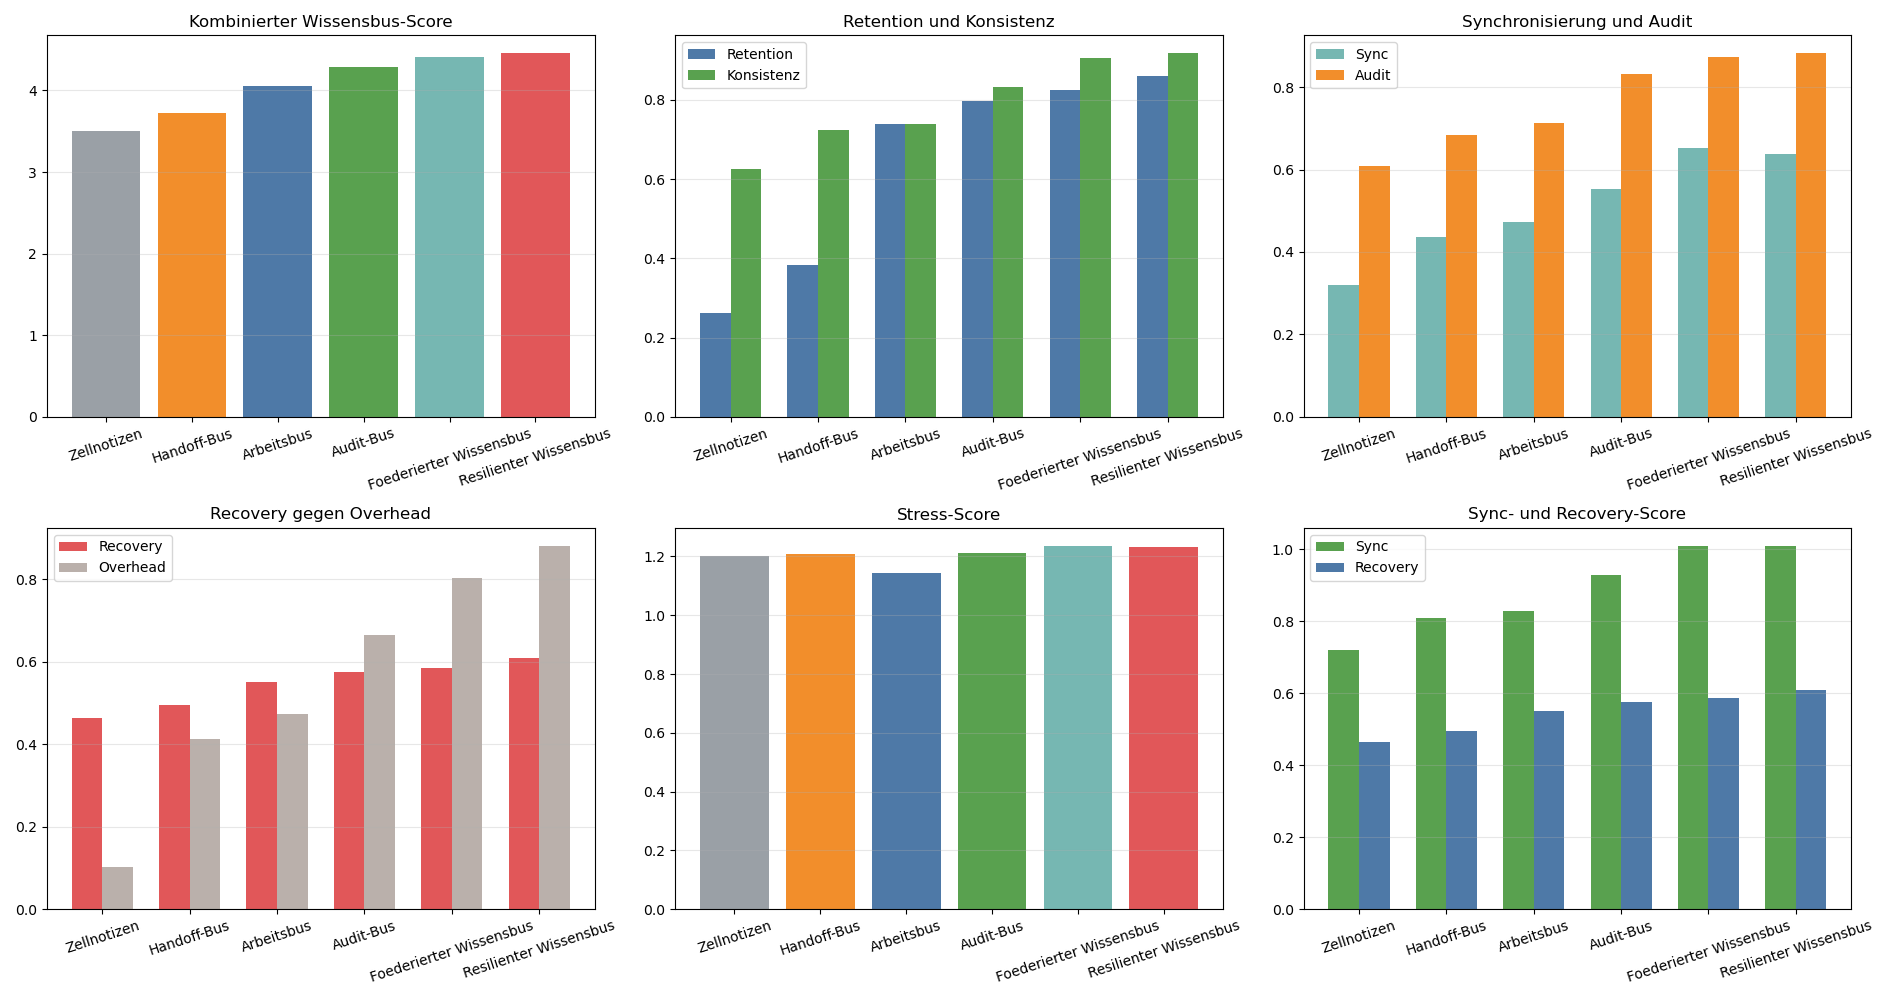
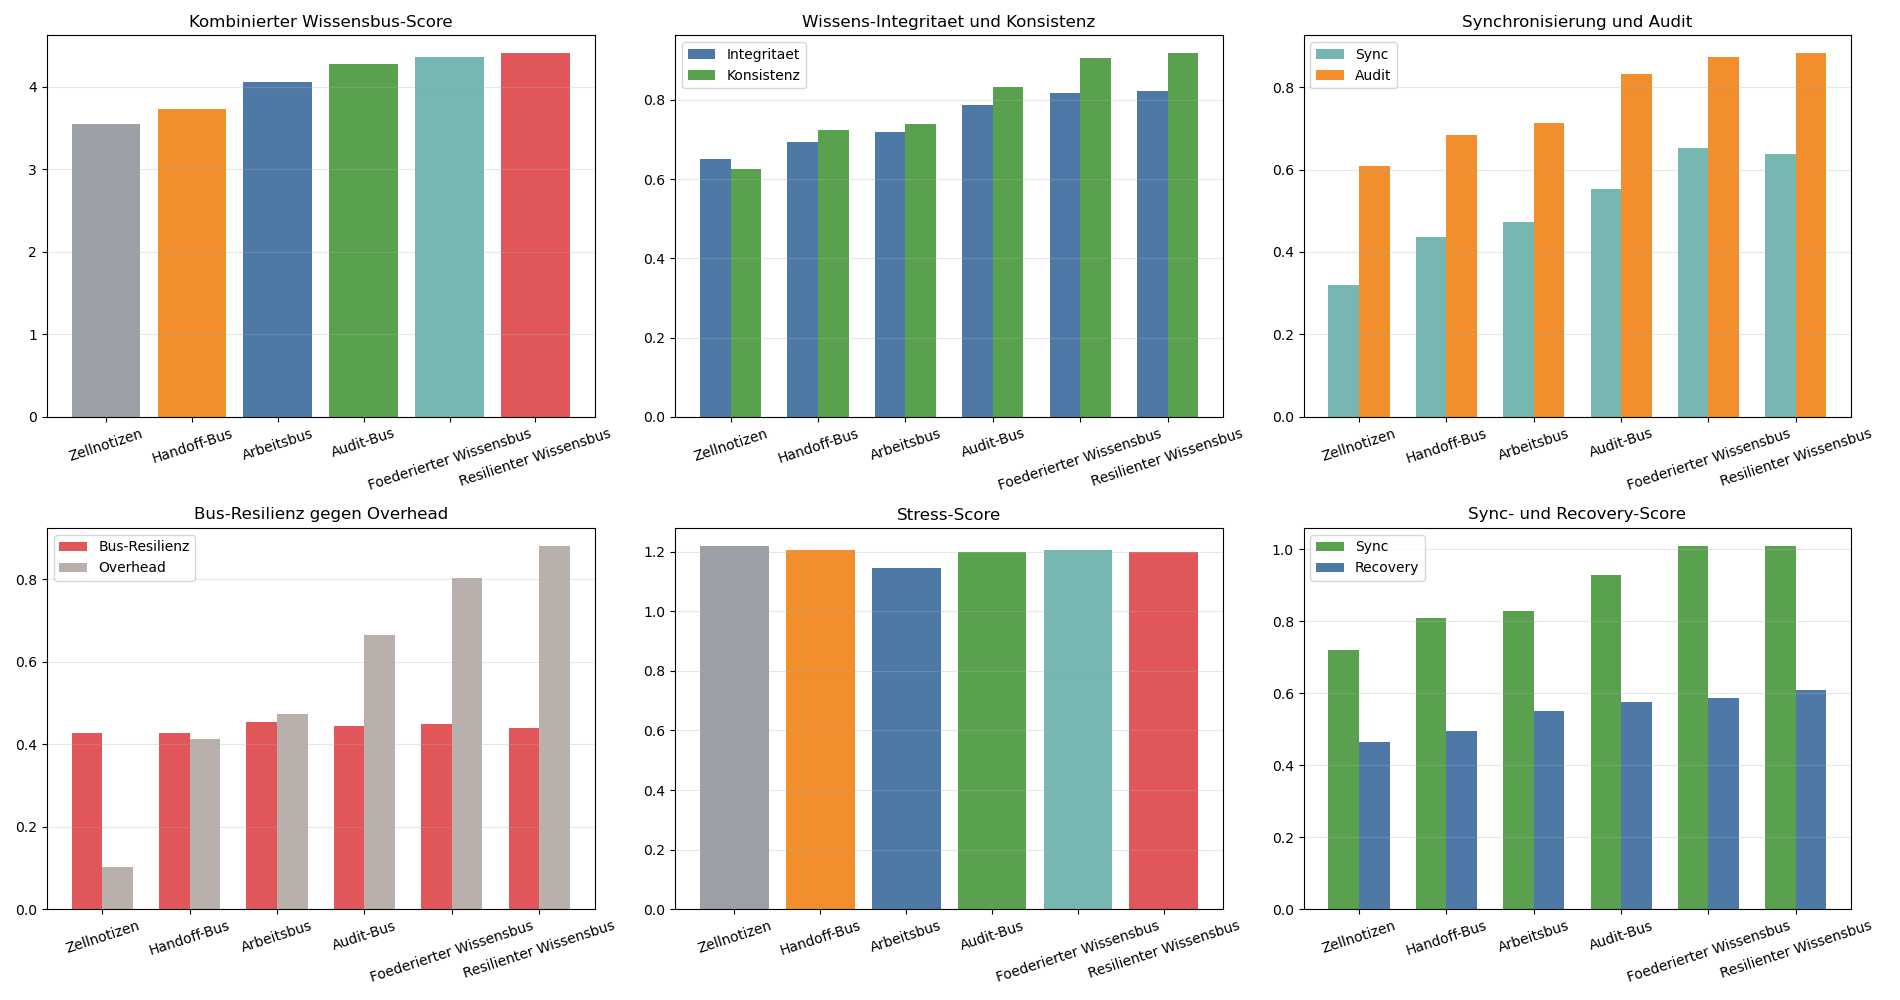
Refine knowledge bus resilience metrics

diff --git a/schwarm_wissensbus.py b/schwarm_wissensbus.py
@@ -364,6 +364,28 @@ def knowledge_bus_metrics(config, result, params, profile):
             ]
         )
     )
+    knowledge_integrity = clamp01(
+        mittelwert(
+            [
+                retention_quality,
+                bus_consistency,
+                audit_signal,
+                1.0 - workflow.get('misinformation_corruption_mean', 0.0),
+                traceability,
+            ]
+        )
+    )
+    bus_resilience = clamp01(
+        mittelwert(
+            [
+                sync_strength,
+                recovery_memory,
+                bus_consistency,
+                workflow.get('sync_strength_mean', 0.0),
+                1.0 - bus_overhead,
+            ]
+        )
+    )
 
     return {
         'completion_rate': workflow.get('completion_rate', 0.0),
@@ -385,6 +407,8 @@ def knowledge_bus_metrics(config, result, params, profile):
         'audit_signal': audit_signal,
         'sync_strength': sync_strength,
         'recovery_memory': recovery_memory,
+        'knowledge_integrity': knowledge_integrity,
+        'bus_resilience': bus_resilience,
         'bus_overhead': bus_overhead,
     }
 
@@ -451,17 +475,16 @@ def context_score(kontext_name, result, agent_count):
     if kontext_name == 'stress':
         return (
             base
-            + 0.18 * metrics['audit_signal']
-            + 0.12 * metrics['bus_consistency']
-            + 0.10 * metrics['recovery_memory']
-            - 0.12 * metrics['corruption_mean']
+            + 0.18 * metrics['knowledge_integrity']
+            + 0.12 * metrics['bus_resilience']
+            + 0.10 * metrics['audit_signal']
             - 0.10 * metrics['bus_overhead']
         )
     return (
         base
-        + 0.20 * metrics['recovery_memory']
-        + 0.12 * metrics['audit_signal']
-        + 0.08 * metrics['sync_strength']
+        + 0.20 * metrics['bus_resilience']
+        + 0.12 * metrics['knowledge_integrity']
+        + 0.08 * metrics['audit_signal']
         - 0.12 * failed_share
         - 0.08 * metrics['bus_overhead']
     )
@@ -475,6 +498,8 @@ def summarize_runs(runs, profile, context_list, agent_count):
         'audit_signal': {},
         'sync_strength': {},
         'recovery_memory': {},
+        'knowledge_integrity': {},
+        'bus_resilience': {},
         'bus_overhead': {},
     }
 
@@ -529,9 +554,9 @@ def main():
         summaries.append(summary)
         print(
             f"{summary['label']:<28} Score={summary['combined_score']:+.3f} | "
-            f"Retention={summary['retention_quality']['startup']:.2f} | "
-            f"Sync={summary['sync_strength']['sync']:.2f} | "
-            f"Audit={summary['audit_signal']['stress']:.2f}"
+            f"Integritaet={summary['knowledge_integrity']['stress']:.2f} | "
+            f"Bus-Resilienz={summary['bus_resilience']['recovery']:.2f} | "
+            f"Sync={summary['sync_strength']['sync']:.2f}"
         )
 
     best = max(summaries, key=lambda item: item['combined_score'])
@@ -543,9 +568,9 @@ def main():
         f"Delta zu Zellnotizen {best['combined_score'] - baseline['combined_score']:+.3f}"
     )
     print(
-        f"Consistency {best['bus_consistency']['sync']:.2f}, "
-        f"Audit {best['audit_signal']['stress']:.2f}, "
-        f"Recovery {best['recovery_memory']['recovery']:.2f}"
+        f"Integritaet {best['knowledge_integrity']['stress']:.2f}, "
+        f"Sync {best['sync_strength']['sync']:.2f}, "
+        f"Bus-Resilienz {best['bus_resilience']['recovery']:.2f}"
     )
 
     labels = [item['label'] for item in summaries]
@@ -563,9 +588,9 @@ def main():
 
     axes[0, 1].bar(
         x - width / 2,
-        [item['retention_quality']['startup'] for item in summaries],
+        [item['knowledge_integrity']['stress'] for item in summaries],
         width,
-        label='Retention',
+        label='Integritaet',
         color='#4e79a7',
     )
     axes[0, 1].bar(
@@ -575,7 +600,7 @@ def main():
         label='Konsistenz',
         color='#59a14f',
     )
-    axes[0, 1].set_title('Retention und Konsistenz')
+    axes[0, 1].set_title('Wissens-Integritaet und Konsistenz')
     axes[0, 1].set_xticks(x)
     axes[0, 1].set_xticklabels(labels, rotation=18)
     axes[0, 1].legend()
@@ -603,9 +628,9 @@ def main():
 
     axes[1, 0].bar(
         x - width / 2,
-        [item['recovery_memory']['recovery'] for item in summaries],
+        [item['bus_resilience']['recovery'] for item in summaries],
         width,
-        label='Recovery',
+        label='Bus-Resilienz',
         color='#e15759',
     )
     axes[1, 0].bar(
@@ -615,7 +640,7 @@ def main():
         label='Overhead',
         color='#bab0ab',
     )
-    axes[1, 0].set_title('Recovery gegen Overhead')
+    axes[1, 0].set_title('Bus-Resilienz gegen Overhead')
     axes[1, 0].set_xticks(x)
     axes[1, 0].set_xticklabels(labels, rotation=18)
     axes[1, 0].legend()
